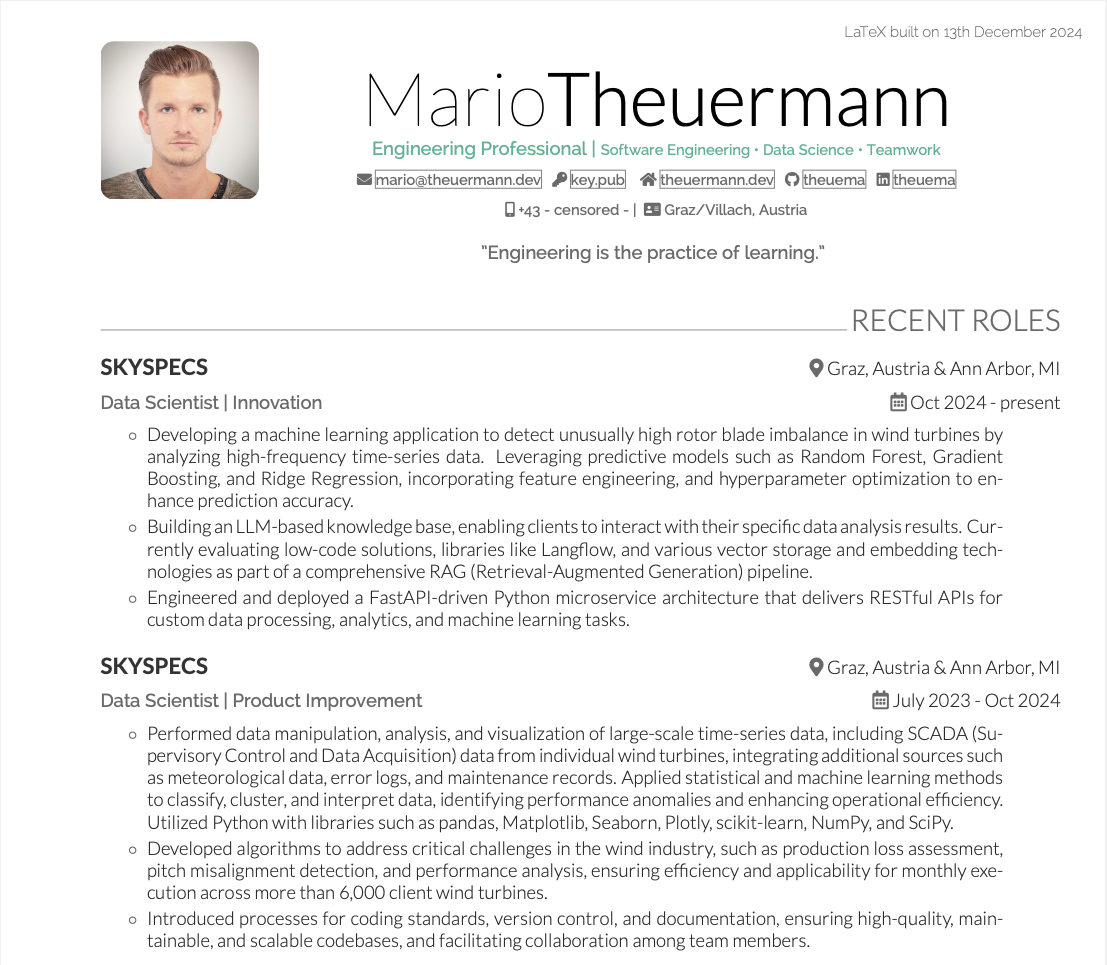
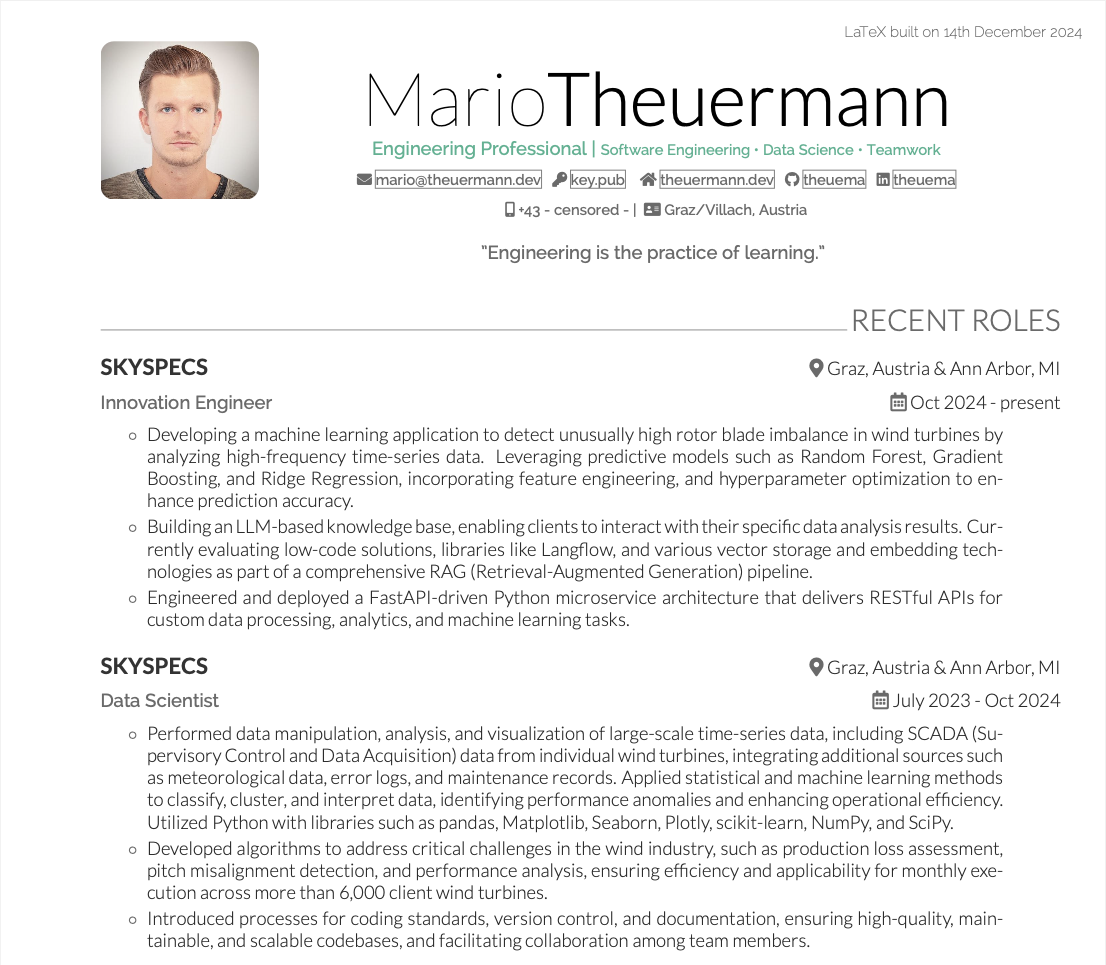
update role to remove department

diff --git a/resume.tex b/resume.tex
@@ -63,7 +63,7 @@
     \onecolumnsectionheader{Recent Roles}{R} 
     % ---------------------------------- 
     \org{SkySpecs}{Graz, Austria \& Ann Arbor, MI}
-    \studypos{Data Scientist | Innovation}{}{Oct 2024 - present}
+    \studypos{Innovation Engineer}{}{Oct 2024 - present}
     \medsep
     \begin{onecolumncventry}[0.94]
         \input{./experiences/SkySpecs_2024-x.tex}
@@ -71,7 +71,7 @@
     % ---------------------------------- 
     % ---------------------------------- 
     \org{SkySpecs}{Graz, Austria \& Ann Arbor, MI}
-    \studypos{Data Scientist | Product Improvement}{}{July 2023 - Oct 2024}
+    \studypos{Data Scientist}{}{July 2023 - Oct 2024}
     \medsep
     \begin{onecolumncventry}[0.94]
         \input{./experiences/SkySpecs_2023-2024.tex}

diff --git a/cv.tex b/cv.tex
@@ -44,7 +44,7 @@
   
     % ----------------------------------
     \org{SkySpecs}{Graz, Austria \& Ann Arbor, MI}
-    \studypos{Data Scientist | Innovation}{}{Oct 2024 - present}
+    \studypos{Innovation Engineer}{}{Oct 2024 - present}
     \medsep
     \begin{onecolumncventry}[0.94]
         \input{./experiences/SkySpecs_2024-x.tex}
@@ -52,7 +52,7 @@
 
     % ----------------------------------
     \org{SkySpecs}{Graz, Austria \& Ann Arbor, MI}
-    \studypos{Data Scientist | Product Improvement}{}{July 2023 - Oct 2024}
+    \studypos{Data Scientist}{}{July 2023 - Oct 2024}
     \medsep
     \begin{onecolumncventry}[0.94]
         \input{./experiences/SkySpecs_2023-2024.tex}
